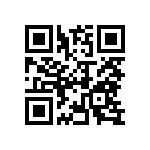
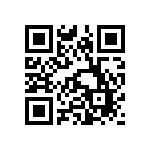
tmp

Changed region(s): [[0.16, 0.16, 0.8533, 0.8533], [0.3733, 0.16, 0.4533, 0.2133]]

diff --git a/qtools-str/src/test/java/com/liumapp/qtools/str/StrToolTest.java b/qtools-str/src/test/java/com/liumapp/qtools/str/StrToolTest.java
@@ -4,6 +4,9 @@ import com.liumapp.qtools.str.basic.StrTool;
 import junit.framework.TestCase;
 import org.apache.http.NameValuePair;
 
+import java.io.UnsupportedEncodingException;
+import java.net.URLDecoder;
+import java.net.URLEncoder;
 import java.util.ArrayList;
 import java.util.HashMap;
 
@@ -24,6 +27,14 @@ public class StrToolTest extends TestCase {
         map.put("age", "24");
         ArrayList<NameValuePair> result =  StrTool.covertParams2NVPS(map);
         System.out.println(result.toString());
+    }
+
+    public void testSpecialStr () throws UnsupportedEncodingException {
+        String s1 = URLEncoder.encode("${s}", "UTF-8");
+        System.out.println(s1);
+
+        String s2 = URLDecoder.decode(s1, "UTF-8");
+        System.out.println(s2);
     }
 
 }

diff --git a/qtools-pic/src/test/java/com/liumapp/qtools/pic/QrCodeToolTest.java b/qtools-pic/src/test/java/com/liumapp/qtools/pic/QrCodeToolTest.java
@@ -20,7 +20,7 @@ public class QrCodeToolTest extends TestCase {
 
     @Test
     public void testGenerateQrCode () throws IOException, WriterException {
-        QrCodeTool.encode("http://www.liumapp.com", 150, 150, "jpg", savePath + "qr.jpg");
+        QrCodeTool.encode("https://www.liumapp.com", 150, 150, "jpg", savePath + "qr.jpg");
     }
 
     @Test
